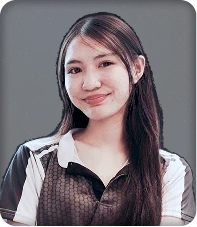
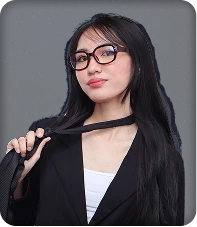
refactor(teams-page): update images, decorations, and optimized mobile dropdowns (#803)
* feat(nexus-web): add francis chuaunsu image

* fix(nexus-web): change francis chuaunsu image format from PNG to WEBP

* chore(nexus-web): update nyzel image asset

* refactor(nexus-web): change blob positioning from absolute to fixed in TeamSection

* feat(nexus-web): enhance TeamSection with mobile navigation and dropdown animations

diff --git a/apps/nexus-web/src/features/about/components/TeamSection.tsx b/apps/nexus-web/src/features/about/components/TeamSection.tsx
@@ -3,7 +3,7 @@
 "use client";
 
 import React from "react";
-import { motion, useInView } from "motion/react";
+import { AnimatePresence, motion, useInView } from "motion/react";
 import { useRef } from "react";
 import {
   Container,
@@ -225,9 +225,19 @@ const TECH_ITEMS = [
 ];
 
 const ALL_ITEMS = [...TOP_LEVEL_ITEMS, ...TECH_ITEMS];
+const STATIC_RAINBOW_GRADIENT =
+  "linear-gradient(135deg, rgba(52,168,83,1) 0%, rgba(66,133,244,1) 33%, rgba(234,67,53,1) 66%, rgba(249,171,0,1) 100%)";
 
 export function TeamSection() {
   const [activeId, setActiveId] = React.useState<string>(ALL_ITEMS[0].id);
+  const mobileNavRef = React.useRef<HTMLDivElement>(null);
+  const [showFloatingTeamNav, setShowFloatingTeamNav] = React.useState(false);
+  const [isCoreTeamsOpen, setIsCoreTeamsOpen] = React.useState(true);
+  const [isTechDepartmentOpen, setIsTechDepartmentOpen] = React.useState(true);
+  const activeLabel = React.useMemo(
+    () => ALL_ITEMS.find((item) => item.id === activeId)?.label ?? "Administrative",
+    [activeId],
+  );
 
   // Track which section is in view to highlight the correct sidebar item
   React.useEffect(() => {
@@ -255,23 +265,147 @@ export function TeamSection() {
     return () => observers.forEach((o) => o.disconnect());
   }, []);
 
+  React.useEffect(() => {
+    const mobileNav = mobileNavRef.current;
+    if (!mobileNav) return;
+
+    const observer = new IntersectionObserver(
+      ([entry]) => {
+        const isDesktop = window.innerWidth >= 1024;
+        setShowFloatingTeamNav(!isDesktop && !entry.isIntersecting);
+      },
+      { threshold: 0.15 }
+    );
+
+    observer.observe(mobileNav);
+
+    const handleResize = () => {
+      if (window.innerWidth >= 1024) {
+        setShowFloatingTeamNav(false);
+      }
+    };
+
+    window.addEventListener("resize", handleResize);
+    handleResize();
+
+    return () => {
+      observer.disconnect();
+      window.removeEventListener("resize", handleResize);
+    };
+  }, []);
+
   // Smooth scroll helper
-  function scrollToSection(id: string) {
+  const scrollToSection = React.useCallback((id: string) => {
     const el = document.getElementById(id);
     if (el) {
       // Add a small delay to ensure smooth scrolling works properly
       setTimeout(() => {
-        el.scrollIntoView({ 
-          behavior: "smooth", 
+        el.scrollIntoView({
+          behavior: "smooth",
           block: "start",
-          inline: "nearest"
+          inline: "nearest",
         });
       }, 100);
     }
+  }, []);
+
+  const renderDropdownTeamItems = React.useCallback(
+    (items: Array<{ id: string; label: string }>) =>
+      items.map(({ id, label }) => (
+        <DropdownItem
+          key={id}
+          onClick={() => scrollToSection(id)}
+          className={activeId === id ? "bg-white/[0.04]" : undefined}
+        >
+          <Text
+            as="span"
+            variant="body-sm"
+            weight={activeId === id ? "semibold" : "normal"}
+            className={activeId === id ? "text-[#F9AB00]" : "text-white"}
+          >
+            {label}
+          </Text>
+        </DropdownItem>
+      )),
+    [activeId, scrollToSection],
+  );
+
+  function renderTeamDropdownItems() {
+    return (
+      <>
+        <button
+          type="button"
+          className="w-full flex items-center justify-between px-3 py-2"
+          onClick={() => setIsCoreTeamsOpen((prev) => !prev)}
+          aria-expanded={isCoreTeamsOpen}
+        >
+          <Text as="span" variant="body" weight="semibold" gradient="yellow" className="uppercase tracking-wide">
+            Core Teams
+          </Text>
+          <svg
+            viewBox="0 0 20 20"
+            className={`w-4 h-4 text-gray-400 transition-transform duration-200 ${isCoreTeamsOpen ? "rotate-180" : "rotate-0"}`}
+            fill="none"
+            aria-hidden
+          >
+            <path d="M5 7.5L10 12.5L15 7.5" stroke="currentColor" strokeWidth="1.8" strokeLinecap="round" strokeLinejoin="round" />
+          </svg>
+        </button>
+        <AnimatePresence initial={false}>
+          {isCoreTeamsOpen && (
+            <motion.div
+              key="core-teams"
+              initial={{ height: 0, opacity: 0 }}
+              animate={{ height: "auto", opacity: 1 }}
+              exit={{ height: 0, opacity: 0 }}
+              transition={{ duration: 0.22, ease: "easeOut" }}
+              className="overflow-hidden"
+            >
+              {renderDropdownTeamItems(TOP_LEVEL_ITEMS)}
+            </motion.div>
+          )}
+        </AnimatePresence>
+
+        <DropdownSeparator />
+
+        <button
+          type="button"
+          className="w-full flex items-center justify-between px-3 py-2"
+          onClick={() => setIsTechDepartmentOpen((prev) => !prev)}
+          aria-expanded={isTechDepartmentOpen}
+        >
+          <Text as="span" variant="body" weight="semibold" gradient="yellow" className="uppercase tracking-wide">
+            Tech Department
+          </Text>
+          <svg
+            viewBox="0 0 20 20"
+            className={`w-4 h-4 text-gray-400 transition-transform duration-200 ${isTechDepartmentOpen ? "rotate-180" : "rotate-0"}`}
+            fill="none"
+            aria-hidden
+          >
+            <path d="M5 7.5L10 12.5L15 7.5" stroke="currentColor" strokeWidth="1.8" strokeLinecap="round" strokeLinejoin="round" />
+          </svg>
+        </button>
+        <AnimatePresence initial={false}>
+          {isTechDepartmentOpen && (
+            <motion.div
+              key="tech-department"
+              initial={{ height: 0, opacity: 0 }}
+              animate={{ height: "auto", opacity: 1 }}
+              exit={{ height: 0, opacity: 0 }}
+              transition={{ duration: 0.22, ease: "easeOut" }}
+              className="overflow-hidden"
+            >
+              {renderDropdownTeamItems(TECH_ITEMS)}
+            </motion.div>
+          )}
+        </AnimatePresence>
+      </>
+    );
   }
 
   // Section content map
-  const SECTION_CONTENT = {
+  const SECTION_CONTENT = React.useMemo(() => ({
     administrative: (
       <div className="flex flex-wrap justify-center gap-4 lg:gap-6 mt-10 lg:mt-15">
         {TEAM_MEMBERS_BY_SLUG.administrative.map((member) => (
@@ -482,7 +616,7 @@ export function TeamSection() {
         ))}
       </div>
     ),
-  };
+  }), []);
 
   return (
     <div
@@ -497,7 +631,7 @@ export function TeamSection() {
         }}
       />
       <div
-        className="absolute rounded-full pointer-events-none hidden md:block"
+        className="fixed rounded-full pointer-events-none hidden md:block"
         style={{
           width: "min(560px, 42vw)",
           height: "min(560px, 42vw)",
@@ -509,7 +643,7 @@ export function TeamSection() {
         }}
       />
       <div
-        className="absolute rounded-full pointer-events-none hidden md:block"
+        className="fixed rounded-full pointer-events-none hidden md:block"
         style={{
           width: "min(500px, 38vw)",
           height: "min(500px, 38vw)",
@@ -604,10 +738,10 @@ export function TeamSection() {
             <Stack gap="md" align="center">
               <Image
                 src={ASSETS.TEAM.HERO_ICON}
-                width={128}
-                height={128}
+                width={138}
+                height={78}
                 alt="GDG Logo"
-                className="hidden md:block"
+                className="block h-auto w-[min(44vw,8.5rem)] md:w-[9.75rem]"
               />
               <Text
                 as="h1"
@@ -636,17 +770,18 @@ export function TeamSection() {
           <div className="flex flex-col lg:flex-row gap-8 items-start flex-1 min-h-0 pb-8">
             <div className="w-full lg:w-auto lg:pb-4 lg:sticky lg:top-35 lg:self-start">
               {/* Mobile: dropdown navigator */}
-              <div className="lg:hidden mb-1 w-full [&>*]:block [&>*]:w-full">
+              <div ref={mobileNavRef} className="lg:hidden mb-1 w-full [&>*]:block [&>*]:w-full">
                 <Dropdown>
                   <DropdownTrigger asChild>
                     <button
                       type="button"
-                      className="group w-[calc(100vw-2rem)] max-w-full rounded-[3px] p-px bg-[linear-gradient(90deg,rgba(52,168,83,1)_0%,rgba(66,133,244,1)_35%,rgba(234,67,53,1)_68%,rgba(249,171,0,1)_100%)]"
+                      className="group w-[calc(100vw-2rem)] max-w-full rounded-[10px] p-px shadow-[inset_0px_2px_12px_0px_rgba(255,255,255,0.05)]"
+                      style={{ background: STATIC_RAINBOW_GRADIENT }}
                       aria-label="Choose team department"
                     >
-                      <div className="w-full h-12 px-4 flex items-center justify-between bg-[rgba(15,14,14,0.96)] text-white">
+                      <div className="w-full h-12 px-4 flex items-center justify-between rounded-[9px] bg-[rgba(15,14,14,0.96)] backdrop-blur-md text-white">
                         <span className="text-[1.12rem] font-semibold bg-clip-text text-transparent bg-[linear-gradient(90deg,rgba(255,255,255,1)_0%,rgba(249,171,0,0.96)_100%)]">
-                          {ALL_ITEMS.find(item => item.id === activeId)?.label ?? "Administrative"}
+                          {activeLabel}
                         </span>
                         <span className="text-white leading-none flex items-center justify-center w-5 h-5">
                           <svg viewBox="0 0 20 20" className="w-4 h-4 transition-transform duration-200 group-aria-expanded:rotate-180" fill="none" aria-hidden>
@@ -656,31 +791,63 @@ export function TeamSection() {
                       </div>
                     </button>
                   </DropdownTrigger>
-                  <DropdownContent size="full" position="bottom-start" className="w-[calc(100vw-2rem)] max-w-full min-w-0 max-h-[56vh] overflow-y-auto overscroll-contain touch-pan-y">
-                    <DropdownLabel>Core Teams</DropdownLabel>
-                    {TOP_LEVEL_ITEMS.map(({ id, label }) => (
-                      <DropdownItem
-                        key={id}
-                        onClick={() => scrollToSection(id)}
-                        className={activeId === id ? "text-[rgba(249,171,0,1)]" : undefined}
-                      >
-                        {label}
-                      </DropdownItem>
-                    ))}
-                    <DropdownSeparator />
-                    <DropdownLabel>Tech Department</DropdownLabel>
-                    {TECH_ITEMS.map(({ id, label }) => (
-                      <DropdownItem
-                        key={id}
-                        onClick={() => scrollToSection(id)}
-                        className={activeId === id ? "text-[rgba(249,171,0,1)]" : undefined}
-                      >
-                        {label}
-                      </DropdownItem>
-                    ))}
+                  <DropdownContent
+                    size="full"
+                    position="bottom-start"
+                    className="w-[calc(100vw-2rem)] max-w-full min-w-0 rounded-[12px] border-0 p-px shadow-[0_8px_30px_rgba(0,0,0,0.35)]"
+                    style={{ background: STATIC_RAINBOW_GRADIENT }}
+                  >
+                    <div className="max-h-[56vh] overflow-y-auto overscroll-contain touch-pan-y rounded-[11px] bg-[rgba(15,14,14,0.97)] backdrop-blur-md">
+                      {renderTeamDropdownItems()}
+                    </div>
                   </DropdownContent>
                 </Dropdown>
               </div>
+
+              {/* Mobile: floating quick-nav when main dropdown leaves viewport */}
+              <AnimatePresence>
+                {showFloatingTeamNav && (
+                  <motion.div
+                    initial={{ opacity: 0, y: 14, scale: 0.96 }}
+                    animate={{ opacity: 1, y: 0, scale: 1 }}
+                    exit={{ opacity: 0, y: 18, scale: 0.92 }}
+                    transition={{ duration: 0.25, ease: "easeOut" }}
+                    className="fixed bottom-5 right-4 z-40 lg:hidden"
+                  >
+                    <Dropdown>
+                      <DropdownTrigger asChild>
+                        <button
+                          type="button"
+                          aria-label="Open team quick navigation"
+                          className="group size-14 rounded-full p-px text-white shadow-[0_10px_28px_rgba(0,0,0,0.4)] flex items-center justify-center"
+                          style={{ background: STATIC_RAINBOW_GRADIENT }}
+                        >
+                          <span className="flex size-full items-center justify-center rounded-full bg-[rgba(15,14,14,0.94)] backdrop-blur-md">
+                            <svg
+                              viewBox="0 0 24 24"
+                              className="w-6 h-6 transition-transform duration-200 ease-out group-aria-expanded:rotate-90"
+                              fill="none"
+                              aria-hidden
+                            >
+                              <path d="M4 7h16M4 12h16M4 17h10" stroke="currentColor" strokeWidth="1.8" strokeLinecap="round" />
+                            </svg>
+                          </span>
+                        </button>
+                      </DropdownTrigger>
+                      <DropdownContent
+                        size="md"
+                        position="top-end"
+                        className="w-[min(19rem,calc(100vw-2rem))] max-h-[60vh] overflow-y-auto overscroll-contain touch-pan-y rounded-[12px] border border-transparent bg-[rgba(15,14,14,0.97)] backdrop-blur-md shadow-[0_8px_30px_rgba(0,0,0,0.35)]"
+                        style={{
+                          background: `linear-gradient(rgba(15,14,14,0.97), rgba(15,14,14,0.97)) padding-box, ${STATIC_RAINBOW_GRADIENT} border-box`,
+                        }}
+                      >
+                        {renderTeamDropdownItems()}
+                      </DropdownContent>
+                    </Dropdown>
+                  </motion.div>
+                )}
+              </AnimatePresence>
 
               {/* Desktop sidebar */}
               <div className="hidden lg:block w-64 pb-4">

diff --git a/apps/nexus-web/src/lib/constants/assets.ts b/apps/nexus-web/src/lib/constants/assets.ts
@@ -137,7 +137,7 @@ export const ASSETS = {
 
         ADMINISTRATIVE: {
             CATHYREN_SACATANI: "/team/team-administrative-cathyren-sacatani.webp",
-            FRANCIS_CHUAUNSU: "/team/team-administrative-francis-jason-chuaunsu.png",
+            FRANCIS_CHUAUNSU: "/team/team-administrative-francis-jason-chuaunsu.webp",
             IRAH_JOSE: "/team/team-administrative-irah-markeisha-jose.webp",
             KURT_LOPEZ: "/team/team-administrative-kurt-lopez.webp",
             MARYROSE_MARQUEZ: "/team/team-administrative-maryrose-marquez.webp",
